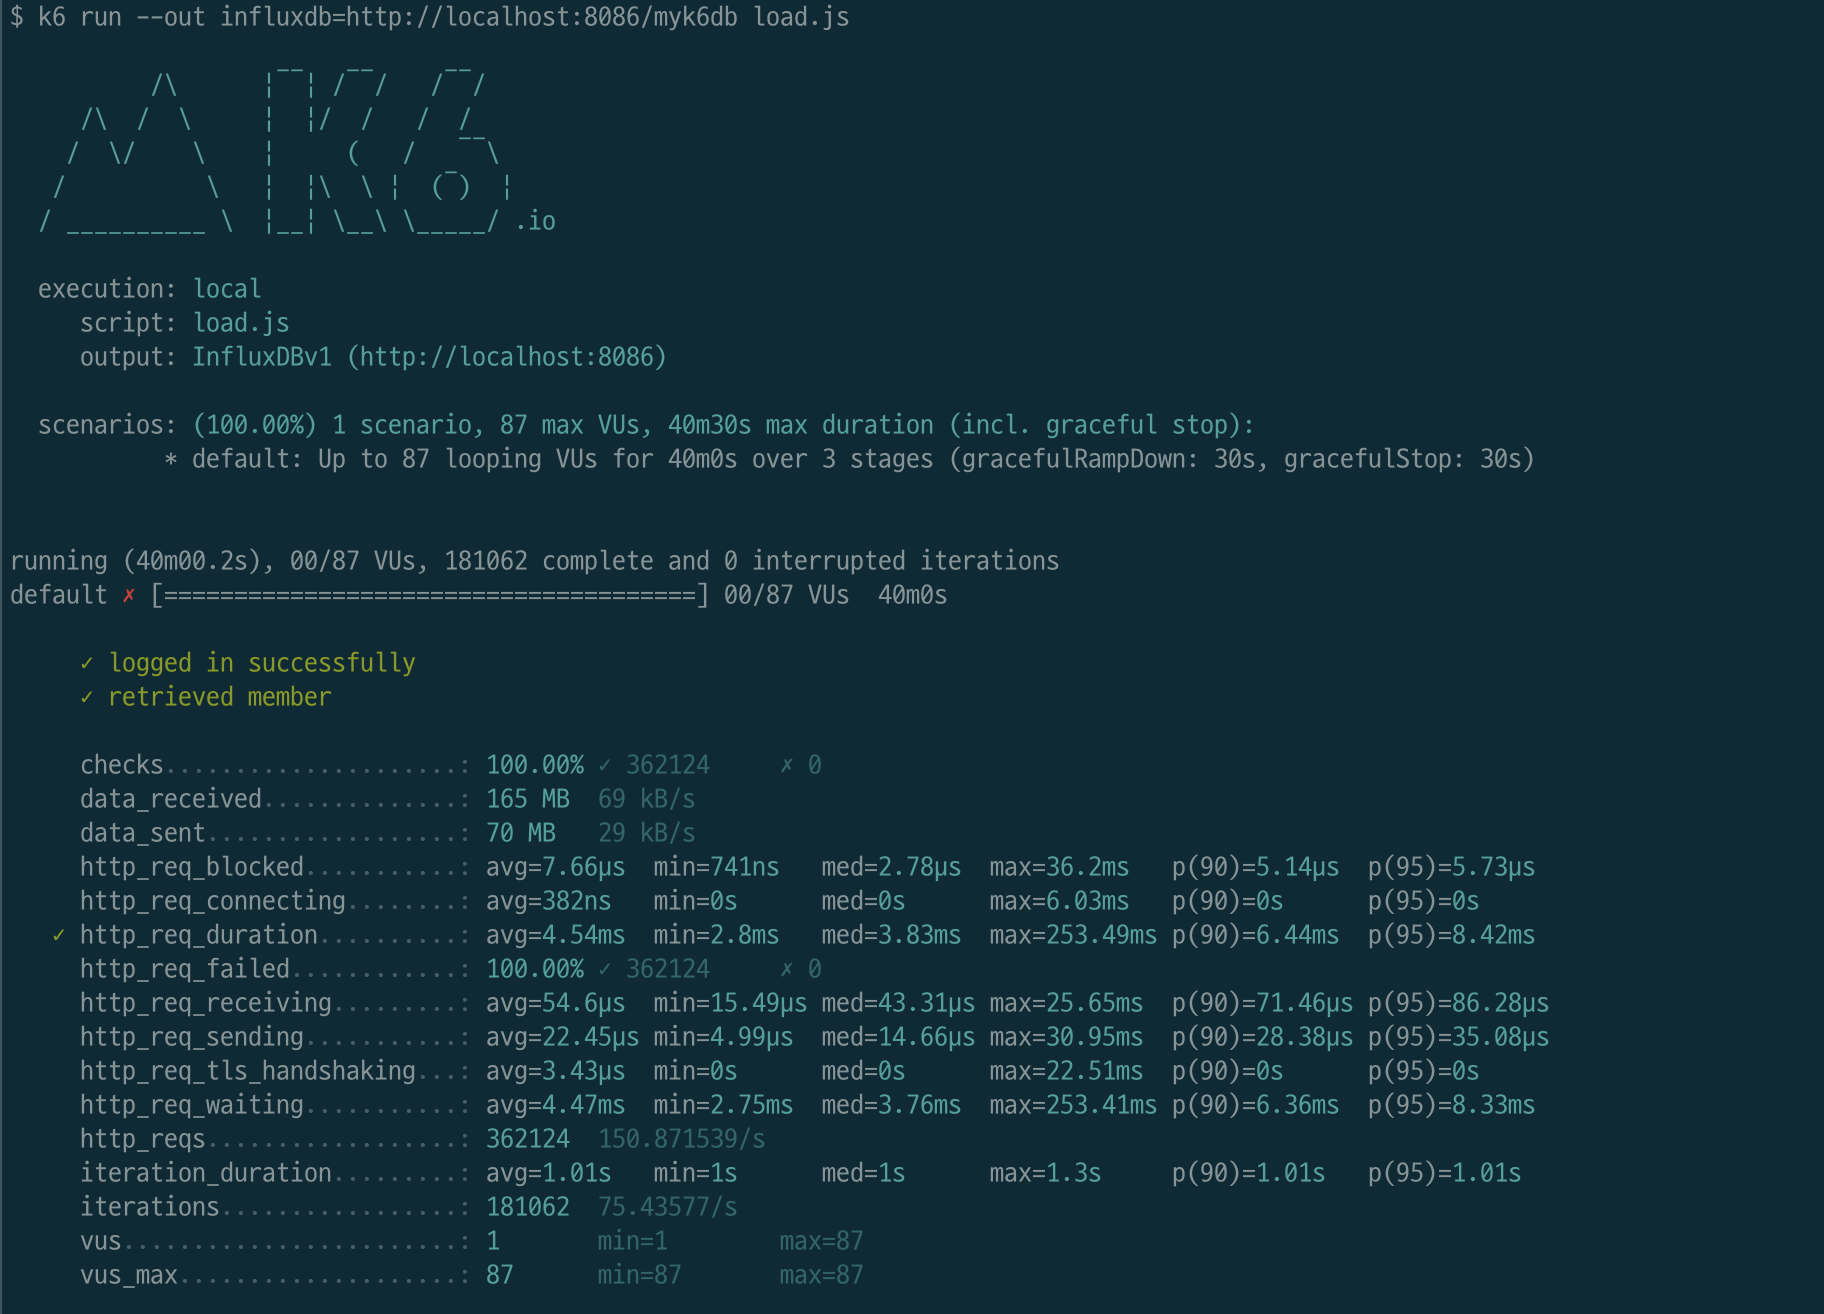
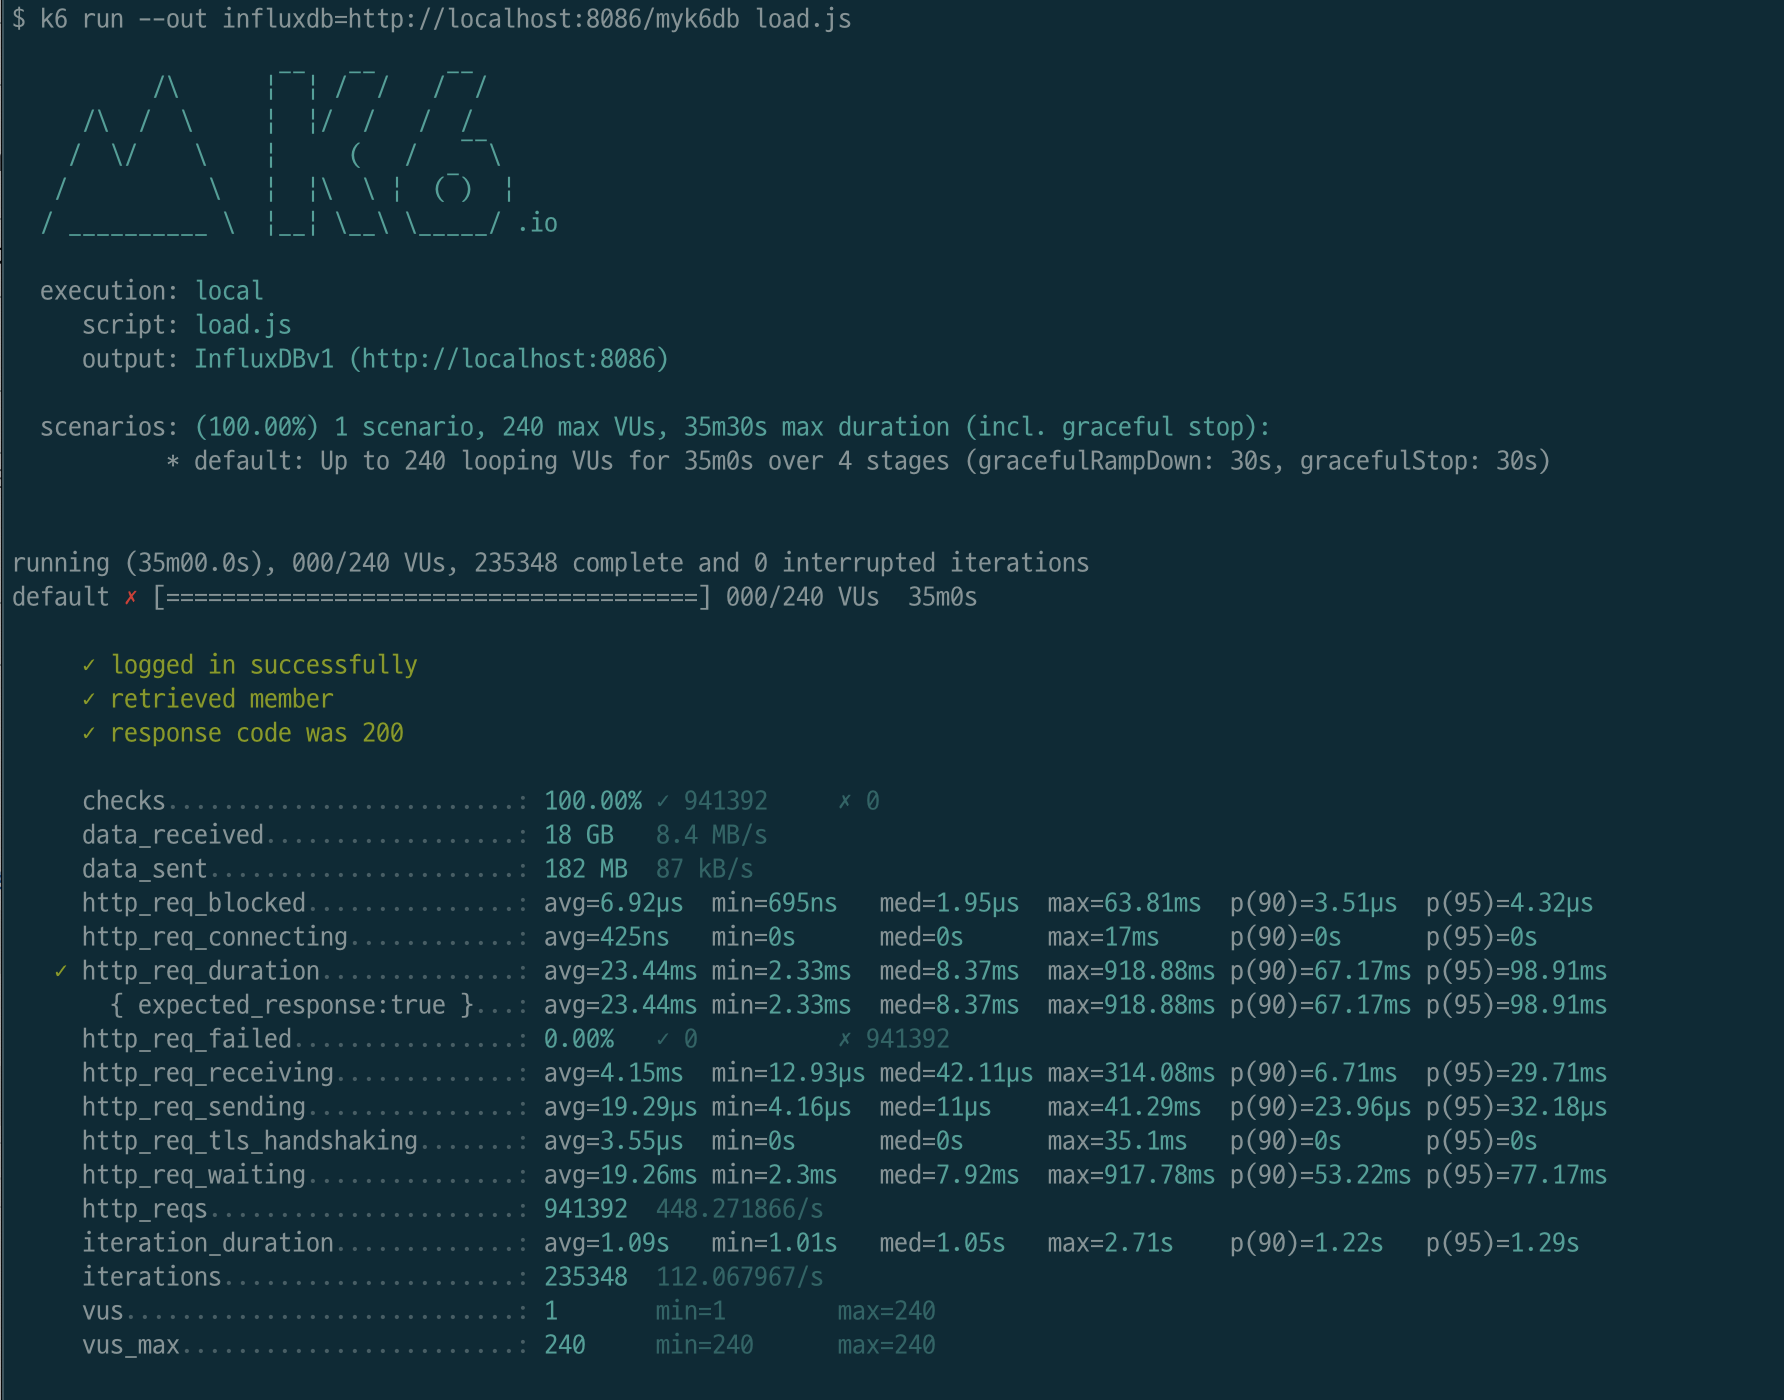
fix($compile): [성능 진단하기] 3단계 - 3단계 - 로깅, 모니터링 완료
[성능 진단하기] 3단계 - 3단계 - 로깅, 모니터링 완료

diff --git a/README.md b/README.md
@@ -19,30 +19,40 @@
 ## 🚀 Getting Started
 
 ### Install
+
 #### npm 설치
+
 ```
 cd frontend
 npm install
 ```
+
 > `frontend` 디렉토리에서 수행해야 합니다.
 
 ### Usage
+
 #### webpack server 구동
+
 ```
 npm run dev
 ```
+
 #### application 구동
+
 ```
 ./gradlew clean build
 ```
+
 <br>
 
-
 ### 1단계 - 웹 성능 테스트
+
 1. 웹 성능예산은 어느정도가 적당하다고 생각하시나요
 
 ### 경쟁사 분석
+
 #### 휴대전화 성능 지표
+
 |서비스|성능|FCP(초)|LCP(초)|TTI(초)|TBT(밀리초)|SI(초)| CLS |
 |---|---|---|---|---|---|---|---|
 |서울교통공사|25|6.4|6.6|9.2|1810|8.7| 0|
@@ -50,6 +60,7 @@ npm run dev
 |카카오맵|70|1.7|5|4.1|40|6.7|0.139|
 
 #### 데스크탑 성능 지표
+
 |서비스|성능|FCP(초)|LCP(초)|TTI(초)| TBT(밀리초) |SI(초)|CLS|
 |---|---|---|---|---|---|---|---|
 |서울교통공사|70|1.5|3.7|2|70|2.3|0|
@@ -57,6 +68,7 @@ npm run dev
 |카카오맵|92|0.5|1.3|0.7|0|2.2|0.003|
 
 #### 경쟁사를 분석 해보았을때 런닝맵의 웹 성능예산을 아래와 같이 정리하였습니다.
+
 | 지표    | 모바일      | 데스크탑     |
 |-------|----------|----------|
 | FCP   | 3s       | 0.5s     |
@@ -69,6 +81,7 @@ npm run dev
 | 성능점수  | 60점 이상   | 80점 이상   |
 
 2. 웹 성능예산을 바탕으로 현재 지하철 노선도 서비스는 어떤 부분을 개선하면 좋을까요
+
 * JS/CSS/글꼴/이미지등의 정적 리소스는 최적화 및 축소하여 네트워크 전송 용량을 줄입니다.
 * JS/CSS는 병합하여 브라우저의 호출 횟수를 줄입니다.
 * CDN과 캐시를 사용하여 빠르게 컨텐츠를 제공할 수 있도록 합니다.
@@ -77,22 +90,24 @@ npm run dev
 
 ---
 
-### 2단계 - 부하 테스트 
+### 2단계 - 부하 테스트
+
 1. 부하테스트 전제조건은 어느정도로 설정하셨나요
 
 #### 목표 RPS 구하기
+
 * 예상 1일 사용자 수(DAU): **470만(4,700,000)**
-  * [관련기사](https://www.donga.com/news/Society/article/all/20220511/113346548/1)
+    * [관련기사](https://www.donga.com/news/Society/article/all/20220511/113346548/1)
 * 피크 시간대의 집중률:
-  * 최대 트래픽: **110만(1,100,000)**
-  * 평소 트래픽: **40만(400,000)**
-  * [관련기사](https://www.bigdata-map.kr/datastory/traffic/seoul)
+    * 최대 트래픽: **110만(1,100,000)**
+    * 평소 트래픽: **40만(400,000)**
+    * [관련기사](https://www.bigdata-map.kr/datastory/traffic/seoul)
 * 1명당 1일 평균 접속 혹은 요청 수: **3번**(출근, 퇴근, 환승)
 * 1번 접속시 요청: 로그인 정보 조회(1회) + 경로 검색 페이지(1회) + 경로 검색 결과(1회)
 * **Throughput 계산**
-  * **1일 총 접속 수:** 4,700,000 x 3 = **14,100,000**
-  * **1일 평균 RPS:** 14,100,000 / 86,400 = **163.19rps**
-  * **1일 최대 RPS:** 163.19rps x (1,100,000 / 400,000) = **448.78rps**
+    * **1일 총 접속 수:** 4,700,000 x 3 = **14,100,000**
+    * **1일 평균 RPS:** 14,100,000 / 86,400 = **163.19rps**
+    * **1일 최대 RPS:** 163.19rps x (1,100,000 / 400,000) = **448.78rps**
 
 * VUser 구하기
 * Latency = 200ms, R = 3, Delay time = 1로 가정
@@ -101,11 +116,12 @@ npm run dev
 * VU(최대) = (448.78 * 1.6) / 3 = 239명
 
 2. Smoke, Load, Stress 테스트 스크립트와 결과를 공유해주세요
-* 테스트 경로는 3가지 테스트 모두 가장 접속을 많이 할 것이라고 예상되는 `/path` 경로로 테스트하였습니다.
+
+* 테스트 경로는 3가지 테스트 모두 가장 접속을 많이 할 것이라고 예상되는 `/path` 웹 페이지와 `/stations` API를 테스트하였습니다.
   #### smoke.js
   ```js
   import http from 'k6/http';
-  import { check, group, sleep, fail } from 'k6';
+  import {check, sleep} from 'k6';
   
   export let options = {
     vus: 1, // 1 user looping for 1 minute
@@ -116,11 +132,11 @@ npm run dev
     },
   };
   
-  const BASE_URL = 'https://devdog.p-e.kr/path';
+  const BASE_URL = 'https://devdog.p-e.kr';
   const USERNAME = 'jeongjae.eom@gmail.com';
   const PASSWORD = '1234';
   
-  export default function ()  {
+  export default function () {
     var payload = JSON.stringify({
       email: USERNAME,
       password: PASSWORD,
@@ -131,9 +147,8 @@ npm run dev
         'Content-Type': 'application/json',
       },
     };
-    
-    let loginRes = http.post(`${BASE_URL}/login/token`, payload, params);
   
+    let loginRes = http.post(`${BASE_URL}/login/token`, payload, params);
     check(loginRes, {
       'logged in successfully': (resp) => resp.json('accessToken') !== '',
     });
@@ -145,17 +160,35 @@ npm run dev
     };
   
     let myObjects = http.get(`${BASE_URL}/members/me`, authHeaders).json();
-    check(myObjects, { 'retrieved member': (obj) => obj.id != 0 });
+    check(myObjects, {'retrieved member': (obj) => obj.id != 0});
+  
+    let pathRes = http.get(`${BASE_URL}/path`);
+    check(pathRes, {
+      'response code was 200': (res) => res.status == 200
+    });
+  
+    var restApiParams = {
+      headers: {
+        'Accept': 'application/json'
+      }
+    }
+  
+    let stationsRes = http.get(`${BASE_URL}/stations`, restApiParams);
+    check(stationsRes, {
+      'response code was 200': (res) => res.status == 200
+    });
+  
     sleep(1);
   };
   ```
+  
   #### Smoke 테스트 결과
   ![Smoke 테스트 결과](docs/images/smoke-test-result.png)
 
   #### load.js
   ```js
   import http from 'k6/http';
-  import { check, group, sleep, fail } from 'k6';
+  import {check, sleep} from 'k6';
   
   export let options = {
     stages: [
@@ -169,11 +202,11 @@ npm run dev
     },
   };
   
-  const BASE_URL = 'https://devdog.p-e.kr/path';
+  const BASE_URL = 'https://devdog.p-e.kr';
   const USERNAME = 'jeongjae.eom@gmail.com';
   const PASSWORD = '1234';
   
-  export default function ()  {
+  export default function () {
     var payload = JSON.stringify({
       email: USERNAME,
       password: PASSWORD,
@@ -181,12 +214,11 @@ npm run dev
   
     var params = {
       headers: {
-      'Content-Type': 'application/json',
+        'Content-Type': 'application/json',
       },
     };
   
     let loginRes = http.post(`${BASE_URL}/login/token`, payload, params);
-  
     check(loginRes, {
       'logged in successfully': (resp) => resp.json('accessToken') !== '',
     });
@@ -198,17 +230,35 @@ npm run dev
     };
   
     let myObjects = http.get(`${BASE_URL}/members/me`, authHeaders).json();
-    check(myObjects, { 'retrieved member': (obj) => obj.id != 0 });
+    check(myObjects, {'retrieved member': (obj) => obj.id != 0});
+  
+    let pathRes = http.get(`${BASE_URL}/path`);
+    check(pathRes, {
+      'response code was 200': (res) => res.status == 200
+    });
+  
+    var restApiParams = {
+      headers: {
+        'Accept': 'application/json'
+      }
+    }
+  
+    let stationsRes = http.get(`${BASE_URL}/stations`, restApiParams);
+    check(stationsRes, {
+      'response code was 200': (res) => res.status == 200
+    });
+  
     sleep(1);
   };
   ```
+
   #### Load 테스트 결과
-  ![load-test-result.png](docs/images/load-test-result.png)
+  ![Load 테스트 결과](docs/images/load-test-result.png)
 
   #### stress.js
   ```js
   import http from 'k6/http';
-  import { check, group, sleep, fail } from 'k6';
+  import {check, sleep} from 'k6';
   
   export let options = {
     stages: [
@@ -224,11 +274,11 @@ npm run dev
     },
   };
   
-  const BASE_URL = 'https://devdog.p-e.kr/path';
+  const BASE_URL = 'https://devdog.p-e.kr';
   const USERNAME = 'jeongjae.eom@gmail.com';
   const PASSWORD = '1234';
   
-  export default function ()  {
+  export default function () {
     var payload = JSON.stringify({
       email: USERNAME,
       password: PASSWORD,
@@ -236,12 +286,11 @@ npm run dev
   
     var params = {
       headers: {
-      'Content-Type': 'application/json',
+        'Content-Type': 'application/json',
       },
     };
   
     let loginRes = http.post(`${BASE_URL}/login/token`, payload, params);
-  
     check(loginRes, {
       'logged in successfully': (resp) => resp.json('accessToken') !== '',
     });
@@ -253,18 +302,44 @@ npm run dev
     };
   
     let myObjects = http.get(`${BASE_URL}/members/me`, authHeaders).json();
-    check(myObjects, { 'retrieved member': (obj) => obj.id != 0 });
+    check(myObjects, {'retrieved member': (obj) => obj.id != 0});
+  
+    let pathRes = http.get(`${BASE_URL}/path`);
+    check(pathRes, {
+      'response code was 200': (res) => res.status == 200
+    });
+  
+    var restApiParams = {
+      headers: {
+        'Accept': 'application/json'
+      }
+    }
+  
+    let stationsRes = http.get(`${BASE_URL}/stations`, restApiParams);
+    check(stationsRes, {
+      'response code was 200': (res) => res.status == 200
+    });
+  
     sleep(1);
   };
   ```
+
   #### Stress 테스트 결과
-  ![stress-test-result.png](docs/images/stress-test-result.png)
+  ![Stress 테스트 결과](docs/images/stress-test-result.png)
 
 ---
 
 ### 3단계 - 로깅, 모니터링
-1. 각 서버내 로깅 경로를 알려주세요
 
+1. 각 서버내 로깅 경로를 알려주세요
+* EC2-jeongjaeeom-reverse-proxy
+  * Nginx Access Log: /var/log/nginx/access.log
+  * Nginx Error Log: /var/log/nginx/error.log
+* EC2-jeongjaeeom-public
+  * WAS Console Log: /home/ubuntu/nextstep/logs/subway.log
+  * WAS File Log: /home/ubuntu/nextstep/logs/subway-file.log
+  * WAS Json Log: /home/ubuntu/nextstep/logs/subway-json.log
 
 
 2. Cloudwatch 대시보드 URL을 알려주세요
+* [jeongjaeeom-dashboard](https://ap-northeast-2.console.aws.amazon.com/cloudwatch/home?region=ap-northeast-2#dashboards:name=jeongjaeeom-dashboard)
